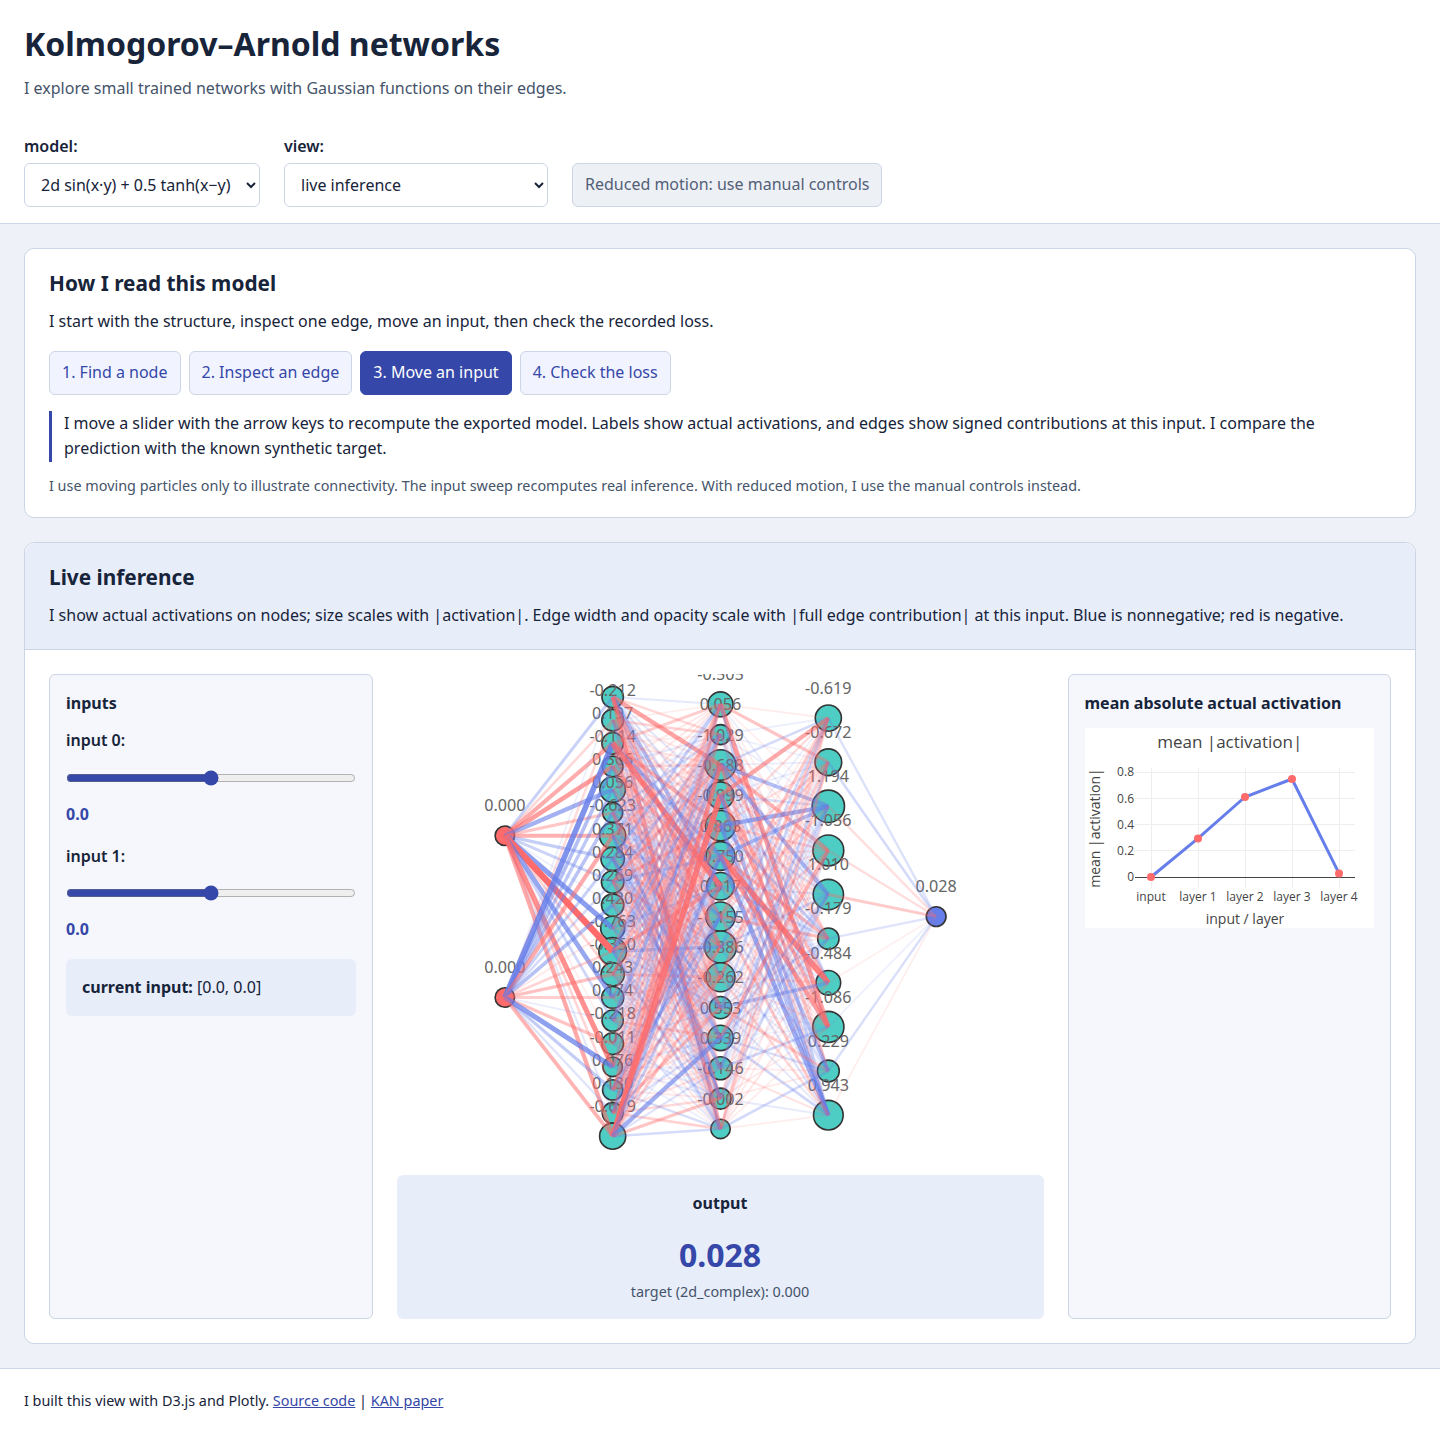
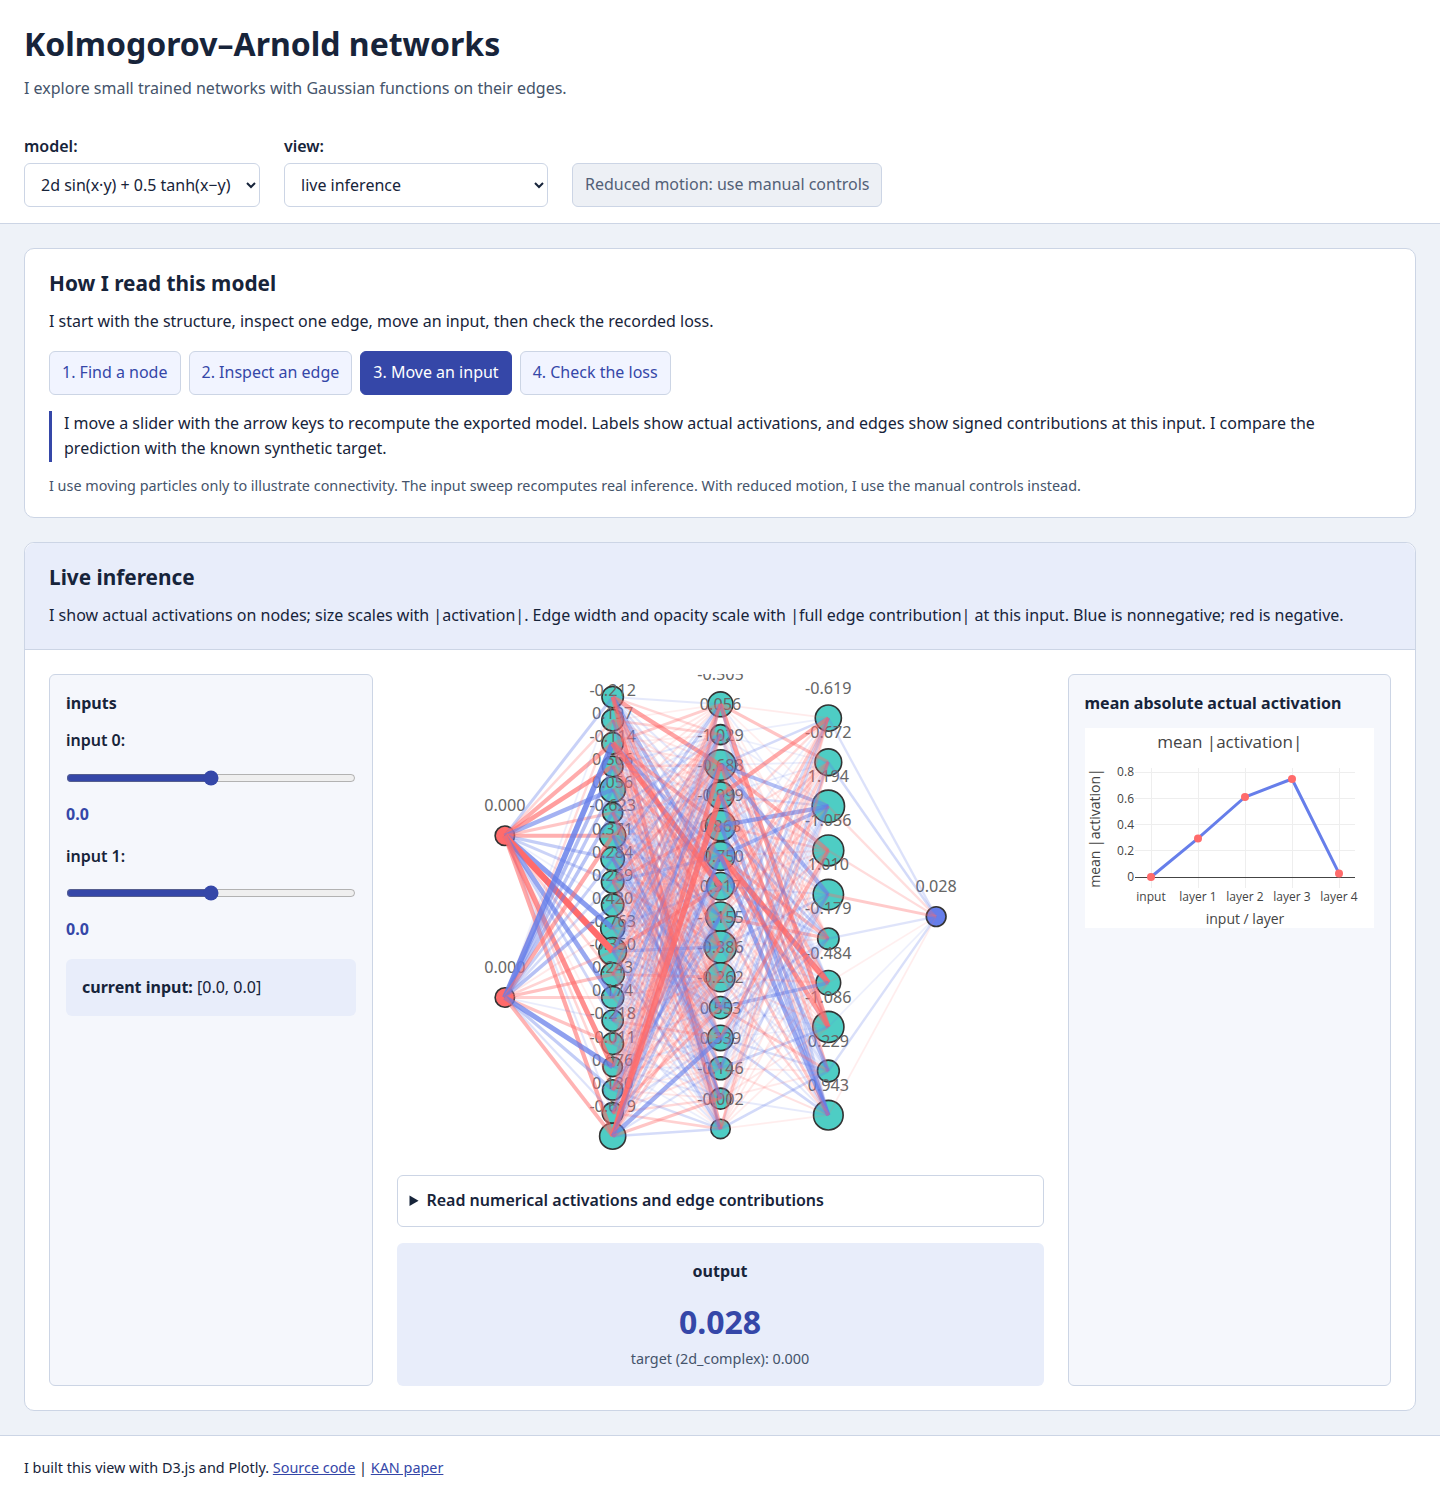
expose live numerical values to assistive technology

diff --git a/web/js/inference-engine.js b/web/js/inference-engine.js
@@ -20,6 +20,7 @@ class InferenceEngine {
         
         // setup inference network
         this.setupInferenceNetwork();
+        this.setupNumericalTables();
         
         // initial prediction
         this.updatePrediction();
@@ -160,7 +161,52 @@ class InferenceEngine {
         document.getElementById('target-output').textContent =
             `target (${this.model.metadata.target_id}): ${this.targetOutput.toFixed(3)}`;
         this.updateNetworkActivations();
+        this.updateNumericalTables();
         this.updateActivationFlow();
+    }
+
+    setupNumericalTables() {
+        const activationBody = document.getElementById('activation-values');
+        const edgeBody = document.getElementById('edge-values');
+        activationBody.replaceChildren();
+        edgeBody.replaceChildren();
+        const appendRow = (body, label) => {
+            const row = document.createElement('tr');
+            const heading = document.createElement('th');
+            heading.scope = 'row';
+            heading.textContent = label;
+            const value = document.createElement('td');
+            row.append(heading, value);
+            body.appendChild(row);
+            return value;
+        };
+        this.activationCells = this.model.metadata.architecture.map((count, layer) =>
+            Array.from({ length: count }, (_, node) => appendRow(
+                activationBody, `${layer === 0 ? 'Input' : `Layer ${layer}`}, node ${node}`
+            ))
+        );
+        this.edgeCells = this.model.layers.map((layer, index) =>
+            Array.from({ length: layer.output_features }, (_, output) =>
+                Array.from({ length: layer.input_features }, (_, input) => appendRow(
+                    edgeBody, `Layer ${index + 1}, input ${input}, output ${output}`
+                ))
+            )
+        );
+    }
+
+    updateNumericalTables() {
+        this.evaluation.activations.forEach((values, layer) =>
+            values.forEach((value, node) => {
+                this.activationCells[layer][node].textContent = value.toFixed(6);
+            })
+        );
+        this.evaluation.edges.forEach((outputs, layer) =>
+            outputs.forEach((inputs, output) =>
+                inputs.forEach((value, input) => {
+                    this.edgeCells[layer][output][input].textContent = value.toFixed(6);
+                })
+            )
+        );
     }
 
     forwardPass(input) {

diff --git a/web/index.html b/web/index.html
@@ -128,6 +128,20 @@
                 </div>
                 <div class="inference-visualization">
                     <div id="inference-network"></div>
+                    <details id="inference-values">
+                        <summary>Read numerical activations and edge contributions</summary>
+                        <p>I list the same values as the graph. Input rows are task coordinates; edge layers start at 1. Values are rounded to six decimal places.</p>
+                        <table>
+                            <caption>Actual node activations</caption>
+                            <thead><tr><th scope="col">Node</th><th scope="col">Activation</th></tr></thead>
+                            <tbody id="activation-values"></tbody>
+                        </table>
+                        <table>
+                            <caption>Signed edge contributions</caption>
+                            <thead><tr><th scope="col">Edge</th><th scope="col">Contribution</th></tr></thead>
+                            <tbody id="edge-values"></tbody>
+                        </table>
+                    </details>
                     <div class="output-display">
                         <h3>output</h3>
                         <div id="current-output">0.000</div>

diff --git a/web/styles/main.css b/web/styles/main.css
@@ -74,6 +74,13 @@ main { padding-bottom: 24px; }
 #target-output { color: var(--text-secondary); font-size: 0.9rem; }
 #inference-network, #inference-svg { display: block; width: 100%; }
 #inference-svg { height: auto; }
+#inference-values { margin-top: 16px; padding: 12px; border: 1px solid var(--border); border-radius: 6px; }
+#inference-values summary { cursor: pointer; font-weight: 600; }
+#inference-values table { width: 100%; border-collapse: collapse; margin-top: 16px; font-size: 0.85rem; }
+#inference-values caption { text-align: left; font-weight: 600; margin-bottom: 6px; }
+#inference-values th, #inference-values td { padding: 6px 4px; text-align: left; border-bottom: 1px solid var(--border); }
+#inference-values tbody th { font-weight: 400; overflow-wrap: anywhere; }
+#inference-values td { font-variant-numeric: tabular-nums; white-space: nowrap; }
 #activation-plot { width: 100%; }
 #training-plots { width: 100%; }
 .node { cursor: pointer; }

diff --git a/tests/pages_smoke.py b/tests/pages_smoke.py
@@ -63,6 +63,37 @@ def layout_observation(page, model, view, width):
     return {'model': model, 'view': view, **observation}
 
 
+def numerical_observation(page, evaluation):
+    tables = [
+        ('Actual node activations',
+         [f'{"Input" if layer == 0 else f"Layer {layer}"}, node {node}'
+          for layer, values in enumerate(evaluation['activations']) for node in range(len(values))],
+         [value for values in evaluation['activations'] for value in values]),
+        ('Signed edge contributions',
+         [f'Layer {layer + 1}, input {input_index}, output {output}'
+          for layer, outputs in enumerate(evaluation['edges'])
+          for output, inputs in enumerate(outputs) for input_index in range(len(inputs))],
+         [value for outputs in evaluation['edges'] for inputs in outputs for value in inputs]),
+    ]
+    observations = {}
+    for name, expected_labels, expected_values in tables:
+        table = page.get_by_role('table', name=name, exact=True)
+        assert table.count() == 1
+        assert table.evaluate('(element) => element.closest(\'[role="img"]\') === null')
+        labels = table.get_by_role('rowheader').all_text_contents()
+        values = table.get_by_role('cell').all_text_contents()
+        assert labels == expected_labels, labels
+        assert len(values) == len(expected_values)
+        assert all(abs(float(label) - value) <= 0.000000501
+                   for label, value in zip(values, expected_values))
+        snapshot = table.aria_snapshot()
+        assert f'table "{name}"' in snapshot
+        assert f'rowheader "{expected_labels[0]}"' in snapshot
+        observations[name] = {'rows': len(values), 'first_label': labels[0],
+                              'first_value': values[0], 'last_value': values[-1]}
+    return observations
+
+
 with tempfile.TemporaryDirectory(prefix='kan-pages-preview-') as preview:
     (pathlib.Path(preview) / 'kan-visualizer').symlink_to(ROOT / 'web', target_is_directory=True)
     server = http.server.ThreadingHTTPServer(('127.0.0.1', 0), functools.partial(Handler, directory=preview))
@@ -162,6 +193,27 @@ with tempfile.TemporaryDirectory(prefix='kan-pages-preview-') as preview:
                             assert all(abs(float(label) - value) <= 0.000501 for label, value in zip(state['activation_labels'], flattened))
                             for layer, mean in zip(state['activations'], state['activation_means']):
                                 assert abs(mean - sum(abs(value) for value in layer) / len(layer)) < 1e-12
+                            details = page.locator('#inference-values')
+                            summary = page.get_by_text('Read numerical activations and edge contributions', exact=True)
+                            summary.focus()
+                            summary.press('Enter')
+                            assert details.get_attribute('open') is not None
+                            evaluation = page.evaluate('kanApp.inferenceEngine.evaluation')
+                            accessible_before = numerical_observation(page, evaluation)
+                            first_slider = page.get_by_label('input 0:', exact=True)
+                            first_slider.focus()
+                            first_slider.press('ArrowRight')
+                            page.wait_for_function('kanApp.inferenceEngine.currentInput[0] === 0.8')
+                            accessible_after = numerical_observation(page, page.evaluate('kanApp.inferenceEngine.evaluation'))
+                            assert accessible_before != accessible_after
+                            first_slider.press('ArrowLeft')
+                            page.wait_for_function('kanApp.inferenceEngine.currentInput[0] === 0.7')
+                            numerical_observation(page, page.evaluate('kanApp.inferenceEngine.evaluation'))
+                            state['accessible_tables'] = {'before': accessible_before, 'after_slider_change': accessible_after}
+                            assert page.evaluate('document.documentElement.scrollWidth <= innerWidth')
+                            summary.focus()
+                            summary.press('Enter')
+                            assert details.get_attribute('open') is None
                             records.append({'model': model, 'viewport_width': width, 'views': VIEWS, **state})
                         else:
                             training = page.evaluate('({actual: document.querySelector("#loss-plot").data[0].y, expected: kanApp.currentModel.training_history.train_loss, traces: document.querySelector("#loss-plot").data.map(trace => trace.name), stats: document.querySelector("#stats-content").textContent})')

diff --git a/docs/GUIDE.md b/docs/GUIDE.md
@@ -48,7 +48,7 @@ Exports declare `basis: gaussian_rbf`. The browser evaluates coefficients, base 
 - A graph summary over sampled edge values is not causal feature importance.
 - Targets are selected by exported task identity, not merely by input dimension. The two-dimensional wave is `sin(x) * exp(-y*y)`; the interaction task is `sin(x*y) + 0.5*tanh(x-y)`.
 
-I recommend the four-step guide at the top of the page: read the network, inspect an edge, move an input, then check the recorded training history. Node and edge selectors provide the same selection as graph clicks, without requiring a mouse. The live-inference view connects those curves to actual values; blue/red signs are also written as numbers rather than encoded only in color. Reduced-motion preferences disable automatic sweeps and particles while keeping sliders usable.
+I recommend the four-step guide at the top of the page: read the network, inspect an edge, move an input, then check the recorded training history. Node and edge selectors provide the same selection as graph clicks, without requiring a mouse. The live-inference view connects those curves to actual values; blue/red signs are also written as numbers rather than encoded only in color. Expand **Read numerical activations and edge contributions** for native labelled tables of every current value, outside the SVG's image role; those tables update with the sliders. Reduced-motion preferences disable automatic sweeps and particles while keeping sliders usable. Chromium checks the table roles, row labels and numbers, but I have not run a manual screen-reader session.
 
 ## Browser deployment
 

diff --git a/README.md b/README.md
@@ -32,7 +32,7 @@ These are regression tasks, so I report mean squared error (MSE), not classifica
 
 [kan_layer.py](kan_layer.py) learns Gaussian coefficients and a base activation on each edge. [export_for_web.py](export_for_web.py) exports all forward parameters; [model-forward.js](web/js/model-forward.js) evaluates them directly, rather than interpolating plotted curves.
 
-I added a four-step guide: read the graph, inspect an edge, move an input, then inspect recorded training history. Keyboard-accessible selectors mirror graph clicks. Live inference shows actual node activations and signed edge contributions. Mobile layouts and reduced-motion controls keep the same information available.
+I added a four-step guide: read the graph, inspect an edge, move an input, then inspect recorded training history. Keyboard-accessible selectors mirror graph clicks. Live inference shows actual node activations and signed edge contributions, with the same values in labelled expandable tables outside the visual graph. Mobile layouts and reduced-motion controls keep the same information available.
 
 [Python/Node checks](results/verification.json) test numerical agreement and learning. [Headless Chromium checks](results/browser_pages.json) cover every model and view at desktop and mobile widths, keyboard selection, activation labels, and reduced motion, without console or request errors. The bundled browser models remain the earlier single-seed exports, not cherry-picked comparison runs.
 
